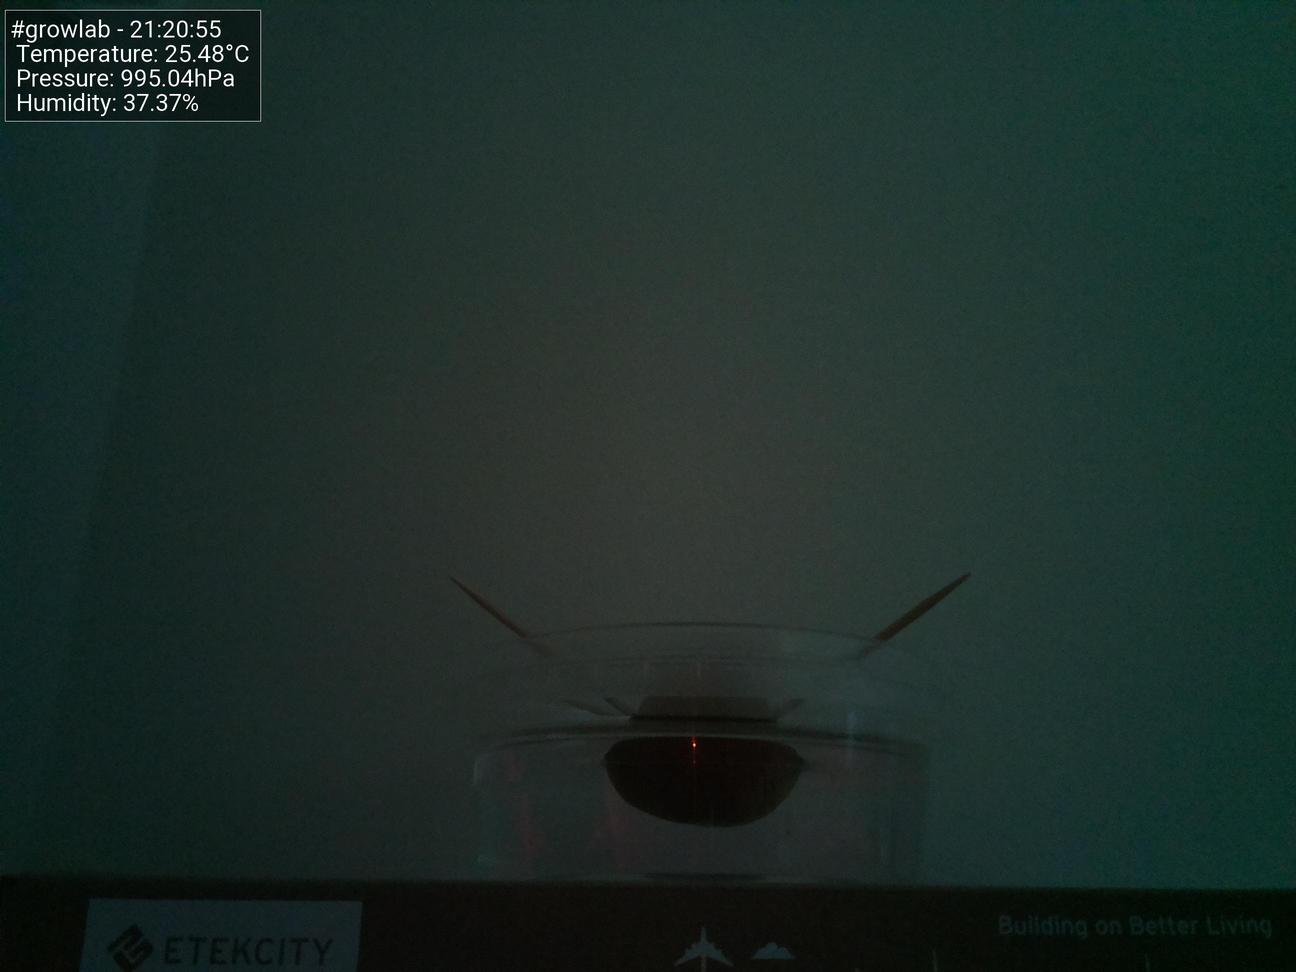
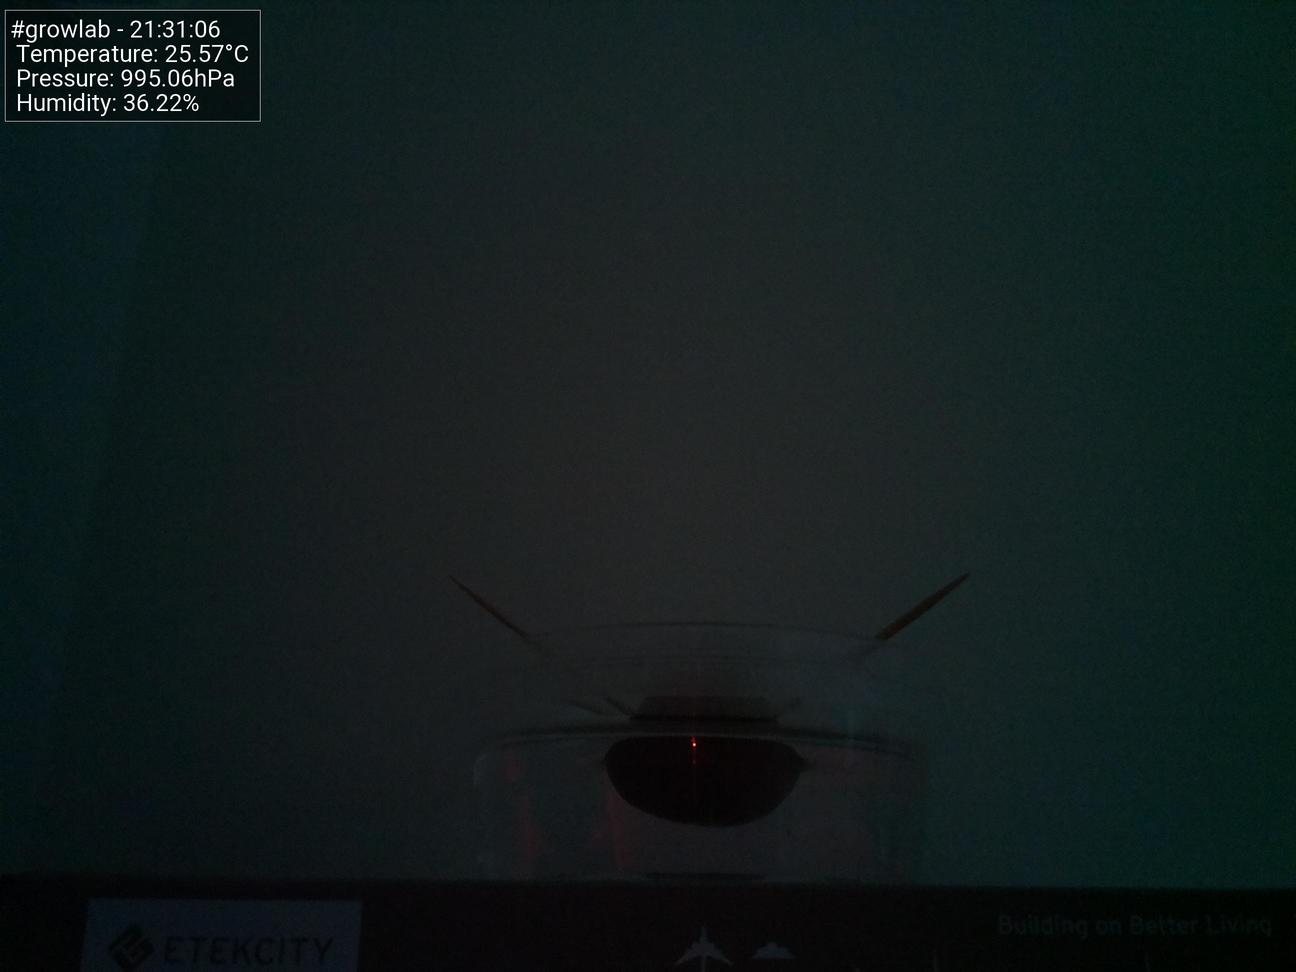
Update images at Mon 21 Jun 21:31:10 CEST 2021

diff --git a/docs/index.html b/docs/index.html
@@ -47,19 +47,19 @@
                         <tbody>
                             <tr>
                                 <td>Time</td>
-                                <td>21:20:55</td>
+                                <td>21:31:06</td>
                             </tr>
                             <tr>
                                 <td>Temperature</td>
-                                <td>25.48°C</td>
+                                <td>25.57°C</td>
                             </tr>
                             <tr>
                                 <td>Humidity</td>
-                                <td>37.37%</td>
+                                <td>36.22%</td>
                             </tr>
                             <tr>
                                 <td>Pressure</td>
-                                <td>995.04hPa</td>
+                                <td>995.06hPa</td>
                             </tr>
                         </tbody>
                     </table>
@@ -67,7 +67,7 @@
 
                 <h5>Latest image</h5>
                 <div style="width: 85%;">
-                            <img class="figure-img img-fluid rounded" src="./preview.jpg?uid=1624303259.2786894">
+                            <img class="figure-img img-fluid rounded" src="./preview.jpg?uid=1624303870.711977">
                 </div>
             </div>
         </div>
